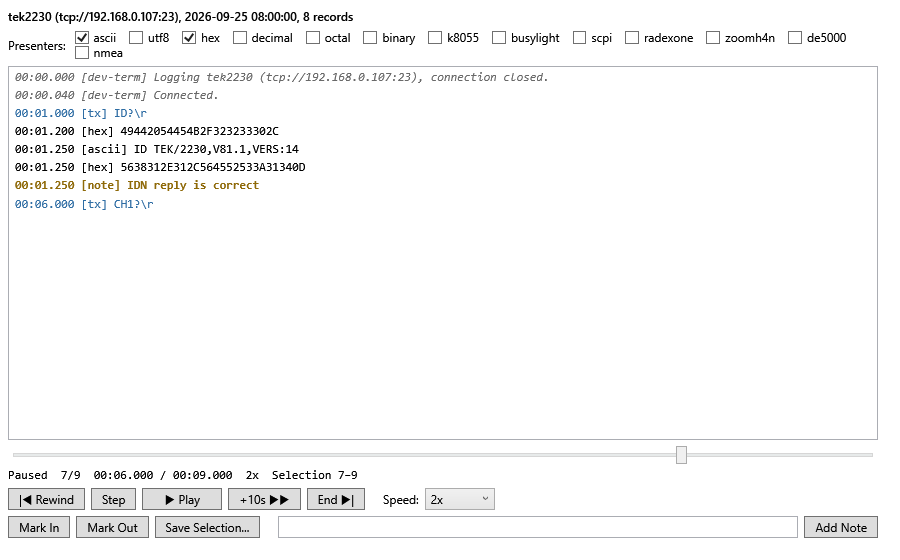
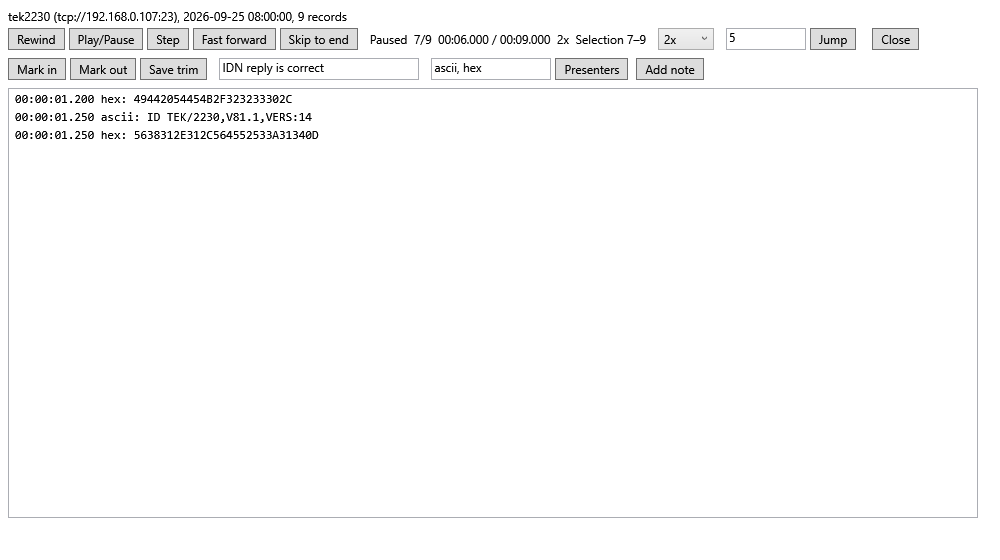
Capture the WPF playback window for the user guide

Changed region(s): [[0.0, 0.0, 0.9333, 0.3946], [0.0, 0.7589, 0.9956, 0.9714]]

diff --git a/src/Applications/OoBDev.DevTerm.Wpf.Tests/PlaybackScreenshotTests.cs b/src/Applications/OoBDev.DevTerm.Wpf.Tests/PlaybackScreenshotTests.cs
@@ -1,0 +1,68 @@
+using System;
+using System.IO;
+using System.Text;
+using DevTermApp;
+using Microsoft.VisualStudio.TestTools.UnitTesting;
+using OoBDev.DevTerm.Configuration;
+using OoBDev.DevTerm.Logging;
+using OoBDev.DevTerm.Wpf;
+using OoBDev.DevTerm.TestUtilities;
+
+namespace OoBDev.DevTerm.Wpf.Tests;
+
+/// <summary>The playback window part way through a captured Tektronix session with a note and a trim mark, captured for the user guide.</summary>
+[DoNotParallelize]
+[TestCategory("DevLocal")]
+[TestClass]
+public sealed class PlaybackScreenshotTests
+{
+    private static readonly DateTimeOffset _t0 = new(2026, 9, 25, 12, 0, 0, TimeSpan.Zero);
+
+    [TestMethod]
+    public void PlaybackWindow_PartWayThroughWithANote_IsCaptured()
+    {
+        var directory = Directory.CreateTempSubdirectory("devterm-playback-");
+        try
+        {
+            WpfScreenshot.Capture(() => BuildWindow(WriteSampleLog(directory.FullName)), "wpf-playback.png", 1000, 560);
+        }
+        finally
+        {
+            directory.Delete(recursive: true);
+        }
+    }
+
+    private static PlaybackWindow BuildWindow(string path)
+    {
+        var controller = new PlaybackPresenters().Open(path, new ManualTimeProvider());
+        var dialog = new PlaybackDialogViewModel(controller);
+        dialog.PresenterText = "ascii, hex";
+        dialog.ApplyPresenters.Execute(null);
+        dialog.JumpText = "5";
+        dialog.Jump.Execute(null);
+        dialog.NoteText = "IDN reply is correct";
+        dialog.AddNote.Execute(null);
+        dialog.Step.Execute(null);
+        dialog.MarkIn.Execute(null);
+        dialog.Speed = PlaybackController.Speeds[3];
+        return new PlaybackWindow(dialog);
+    }
+
+    private static string WriteSampleLog(string directory)
+    {
+        var path = Path.Combine(directory, "tek2230.jsonl");
+        new SessionLog(
+            new SessionLogHeader { Created = _t0, Connection = "tcp://192.168.0.107:23", Profile = "tek2230", Transport = "tcp", Presenters = ["ascii"], Parser = "ascii" },
+            [
+                new() { Kind = SessionLogRecordKind.Session, Sequence = 1, Timestamp = _t0, Connection = "tcp://192.168.0.107:23", Profile = "tek2230", State = "closed" },
+                new() { Kind = SessionLogRecordKind.Open, Sequence = 2, Timestamp = _t0.AddMilliseconds(40) },
+                new() { Kind = SessionLogRecordKind.Tx, Sequence = 3, Timestamp = _t0.AddSeconds(1), Data = Encoding.ASCII.GetBytes("ID?\r") },
+                new() { Kind = SessionLogRecordKind.Rx, Sequence = 4, Timestamp = _t0.AddMilliseconds(1200), Data = Encoding.ASCII.GetBytes("ID TEK/2230,") },
+                new() { Kind = SessionLogRecordKind.Rx, Sequence = 5, Timestamp = _t0.AddMilliseconds(1250), Data = Encoding.ASCII.GetBytes("V81.1,VERS:14\r") },
+                new() { Kind = SessionLogRecordKind.Tx, Sequence = 6, Timestamp = _t0.AddSeconds(6), Data = Encoding.ASCII.GetBytes("CH1?\r") },
+                new() { Kind = SessionLogRecordKind.Rx, Sequence = 7, Timestamp = _t0.AddMilliseconds(6300), Data = Encoding.ASCII.GetBytes("CH1 VOLTS:1,COUPLING:DC\r") },
+                new() { Kind = SessionLogRecordKind.Disconnect, Sequence = 8, Timestamp = _t0.AddSeconds(9) },
+            ]).Save(path);
+        return path;
+    }
+}

diff --git a/BACKLOG.md b/BACKLOG.md
@@ -12,14 +12,14 @@ GitHub is no longer the primary repository (local bare repo `origin`), so nothin
 
 Owner: all protocols and features of dev-term must exist here. Done means what dev-term has today; its own future plans are in section 8. Status, slices and leftovers: [status.md](docs/design/DevTermParity/status.md); matrix: [README](docs/design/DevTermParity/README.md); restructure steps 0 to 6 are done.
 
-- [ ] None of the WPF windows were viewed running: capture the remaining windows with `WpfScreenshot` (done: connection editor, converter tools, stream monitor, expression pickers, routing) and migrate the layout review tests ([status.md](docs/design/DevTermParity/status.md)).
+- [ ] None of the WPF windows were viewed running: capture the remaining windows with `WpfScreenshot` (done: connection editor, converter tools, stream monitor, expression pickers, routing, playback) and migrate the layout review tests ([status.md](docs/design/DevTermParity/status.md)).
 - [ ] **DevTerm docs into living documents** (owner, 2026-10-30): fold the imported design, spec and device folders in `docs/applications/devterm/` into the living documents feature by feature, move reusable designs (transports, presenters, UI definitions, manifests, session logging) to `docs/design/<Feature>/`, then delete each folder per [the map](docs/migration/devterm-docs-map.md); point the generated Tui guide output at `docs/applications/devterm/user-guide`.
 - [ ] Port dev-term's coding-standards tests (device docs, one test category per test; snapshots in `docs/applications/devterm/source/`) and wire its containers (`containers/devterm`: mosquitto, ser2net, loopback-device, rabbitmq TLS and STOMP) into `containers/testing` with the `add-integration-service` skill.
 - [ ] **Surroundings review of the other migrated projects** (owner, 2026-10-30; dev-term is done, see [the review](docs/migration/devterm-surroundings-review-2026-10-30.md)): repeat for BinaryDataDecoders and each harvest project: guide, `.claude` configuration, docs, open questions, TODO and BACKLOG, UIs, tests, scripts and plans, each migrated or rejected with a reason; application docs go to `docs/applications/{app-name}/`.
 - [ ] Bench hardware ([list](docs/how-tos/test-hardware.md)): write Hardware tests for the Korad KA3005P/KA6003P (settings exist in `src/.runsettings`); move the Tui DevLocal tests off dev-term's `RealTcpDevice*` names. The identify tests for the HP 34401A, TDS2024 and both 2230s exist (`BenchInstrumentTests`; the second 2230 is offline).
 - [ ] **Generated guides** (owner, 2026-10-30): [design](docs/design/GeneratedGuides/README.md); journey-driven user guides and screenshots for Tui, WPF and Web written straight into `docs/applications/{app}/user-guide`, API guides from OpenAPI, AsyncAPI and ksy files by MSTest scripts, JavaScript projects as `.esproj` with `npm test`.
 - Find why a full Tui Unit run rewrites `tui-manifest-editor*`, `tui-plugin-approval*` images and their `.txt` captures even through `image-mask sync` (nondeterministic content or a missing zone); then add zones.
-- Capture the remaining WPF windows through `WpfScreenshot`/`GuideImage` (connection editor, converter tools, stream monitor, expression pickers and routing done); Tui and Web are routed; see [GeneratedGuides](docs/design/GeneratedGuides/README.md).
+- Capture the remaining WPF windows through `WpfScreenshot`/`GuideImage` (connection editor, converter tools, stream monitor, expression pickers, routing and playback done); Tui and Web are routed; see [GeneratedGuides](docs/design/GeneratedGuides/README.md).
 - Generated user guides for the `src/Tools` command-line tools (journeys, captured output, screenshots where there is a UI); later, after the application guides; see [GeneratedGuides](docs/design/GeneratedGuides/README.md).
 - [ ] Docs check for imported material: every file under `docs/applications/{app}/` is linked from its README or listed in the transient map in `docs/migration/` (extend `OoBDev.Docs.Tests`; widen its default scope to `docs/applications`).
 - [ ] Move `FakeDeviceConfigEditor`, `FakeTransport` and `ManualTimeProvider` into `OoBDev.DevTerm.TestUtilities` ([plan](docs/design/DevTermParity/test-utilities-plan.md)); each needs Core references.

diff --git a/docs/changes/devterm-wpf-screenshot-capture-2026-10-30.md b/docs/changes/devterm-wpf-screenshot-capture-2026-10-30.md
@@ -7,6 +7,7 @@
 - `ToolWindowScreenshotTests` (DevLocal) captures the converter tools and the empty stream monitor (`wpf-converter-tools.png`, `wpf-stream-monitor.png`); `WpfScreenshot.Capture` builds a window on an STA thread, shows it off-screen, saves it through `GuideImage` and closes it.
 - `ExpressionPickerScreenshotTests` (DevLocal) captures the expression picker in its seven states (`wpf-expression-picker*.png`: plain, error, warning, text, parameters, find, channels), identical across repeated runs.
 - `RoutingScreenshotTests` (DevLocal) captures the routing window with a fake broker link, two rules and traffic (`wpf-routing.png`); the history timestamps are a masked zone in `zones.json`.
+- `PlaybackScreenshotTests` (DevLocal) captures the playback window part way through a Tektronix 2230 session (`wpf-playback.png`, 1000 wide so the toolbar fits); the local-time part of the description is a masked zone.
 - `OoBDev.DevTerm.Wpf.Tests` references `OoBDev.DevTerm.TestUtilities`.
 
 ## Not done

diff --git a/TODO.md b/TODO.md
@@ -8,7 +8,7 @@ Keep this file short (about 15 one-line items). When an item starts, move it her
 
 ## In progress
 
-- [ ] **DevTerm parity, WPF shell**: all five slices are built; left is viewing the windows running (`WpfScreenshot` is migrated and the connection editor, converter tools, stream monitor, expression pickers and routing captured; the other windows and the layout review are left); detail in [status.md](docs/design/DevTermParity/status.md).
+- [ ] **DevTerm parity, WPF shell**: all five slices are built; left is viewing the windows running (`WpfScreenshot` is migrated and the connection editor, converter tools, stream monitor, expression pickers, routing and playback captured; the other windows and the layout review are left); detail in [status.md](docs/design/DevTermParity/status.md).
 
 ## Next
 
